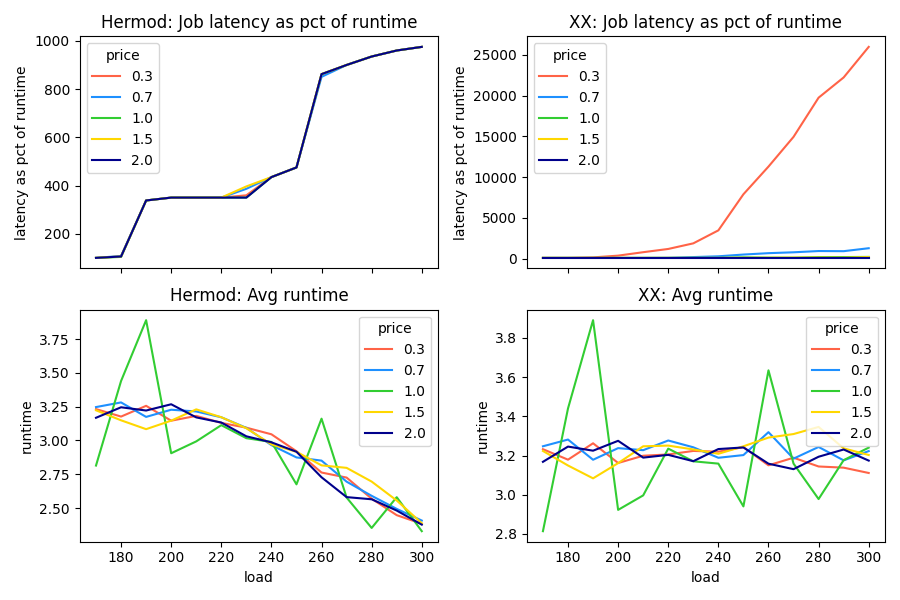
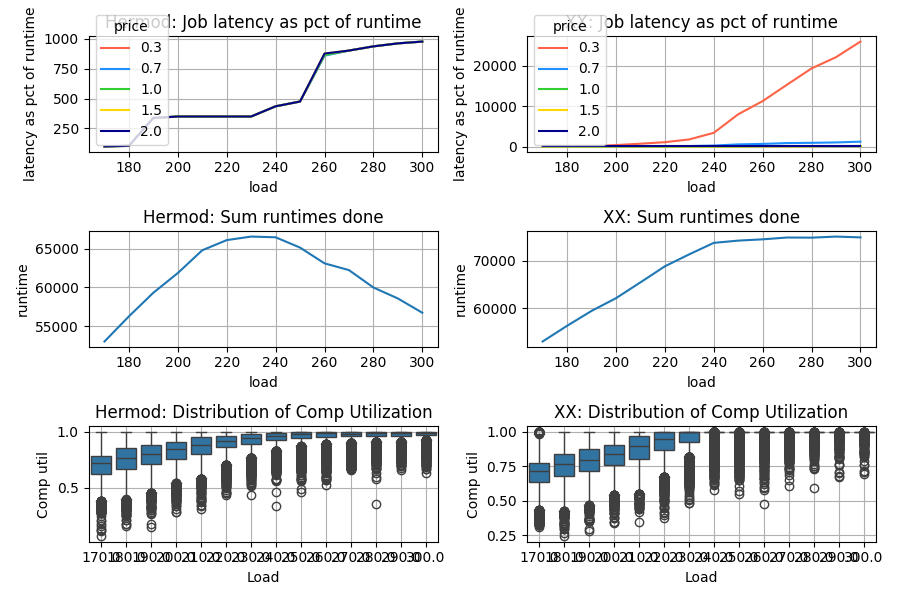
more exploratory graph, trying to understand what's going on better

diff --git a/results/usage_plots.py b/results/usage_plots.py
@@ -5,7 +5,7 @@ import numpy as np
 
 numMachines = 100
 coresPerMachine = 8
-totalMemoryPerMachine = 64000
+totalMemoryPerMachine = 512000
 
 
 
@@ -48,8 +48,8 @@ print("num edf finished: ", len(edf_procs_done))
 
 
 
-
-
+actual_usage_metrics = actual_usage_metrics.where(actual_usage_metrics['tick'] > 5).dropna()
+hermod_usage_metrics = hermod_usage_metrics.where(hermod_usage_metrics['tick'] > 5).dropna()
 
 
 # plots I will need to draw:
@@ -119,7 +119,7 @@ print("num edf finished: ", len(edf_procs_done))
 # =================================================================================
 
 
-fig, ax = plt.subplots(2, 2, figsize=(9, 6), sharex=True)
+fig, ax = plt.subplots(3, 2, figsize=(9, 6))
 
 high_contrast_palette = ["#FF6347", "#1E90FF", "#32CD32", "#FFD700", "#00008B"]
 
@@ -136,28 +136,47 @@ sns.lineplot(data=hermod_percentiles, x='nGenPerTick', y='percentile_99', hue='p
 ax[0, 0].set_title("Hermod: Job latency as pct of runtime")
 ax[0, 0].set_ylabel("latency as pct of runtime")
 ax[0, 0].set_xlabel("load")
+ax[0, 0].grid(True)
 
 
 sns.lineplot(data=mine_percentiles, x='nGenPerTick', y='percentile_99', hue='price', palette=high_contrast_palette, ax=ax[0, 1])
 ax[0, 1].set_title("XX: Job latency as pct of runtime")
 ax[0, 1].set_ylabel("latency as pct of runtime")
 ax[0, 1].set_xlabel("load")
+ax[0, 1].grid(True)
 
 
-hermod_percentile_runtime = hermod_procs_done.groupby(['nGenPerTick', 'price'])['compDone'].mean().reset_index()
+hermod_ticks_of_work_done = hermod_procs_done.groupby(['nGenPerTick'])['compDone'].sum().reset_index()
 
-mine_percentile_runtime = actual_procs_done.groupby(['nGenPerTick', 'price'])['compDone'].mean().reset_index()
+mine_ticks_of_work_done = actual_procs_done.groupby(['nGenPerTick'])['compDone'].sum().reset_index()
 
-sns.lineplot(data=hermod_percentile_runtime, x='nGenPerTick', y='compDone', hue='price', palette=high_contrast_palette, ax=ax[1, 0])
-ax[1, 0].set_title("Hermod: Avg runtime")
+sns.lineplot(data=hermod_ticks_of_work_done, x='nGenPerTick', y='compDone', ax=ax[1, 0])
+ax[1, 0].set_title("Hermod: Sum runtimes done")
 ax[1, 0].set_ylabel("runtime")
 ax[1, 0].set_xlabel("load")
+ax[1, 0].grid(True)
 
 
-sns.lineplot(data=mine_percentile_runtime, x='nGenPerTick', y='compDone', hue='price', palette=high_contrast_palette, ax=ax[1, 1])
-ax[1, 1].set_title("XX: Avg runtime")
+sns.lineplot(data=mine_ticks_of_work_done, x='nGenPerTick', y='compDone', ax=ax[1, 1])
+ax[1, 1].set_title("XX: Sum runtimes done")
 ax[1, 1].set_ylabel("runtime")
 ax[1, 1].set_xlabel("load")
+ax[1, 1].grid(True)
+
+sns.boxplot(data=hermod_usage_metrics, x="nGenPerTick", y="utilization", ax=ax[2, 0])
+ax[2, 0].set_title("Hermod: Distribution of Comp Utilization")
+ax[2, 0].set_xlabel("Load")
+ax[2, 0].set_ylabel("Comp util")
+# ax[2, 0].axhline(y=1, color='grey', linewidth=2, alpha=0.5)
+ax[2, 0].grid(True)
+
+
+sns.boxplot(data=actual_usage_metrics, x="nGenPerTick", y="utilization", ax=ax[2, 1])
+ax[2, 1].set_title("XX: Distribution of Comp Utilization")
+ax[2, 1].set_xlabel("Load")
+ax[2, 1].set_ylabel("Comp util")
+# ax[2, 1].axhline(y=1, color='grey', linewidth=2, alpha=0.5)
+ax[2, 1].grid(True)
 
 plt.tight_layout()
 plt.savefig('hermod_xx_latency.png')

diff --git a/mine-machine.go b/mine-machine.go
@@ -280,7 +280,7 @@ func (sd *Machine) simulateRunProcs() {
 	if totalTicksLeftToGive < 0.00002 {
 		totalTicksLeftToGive = 0
 	}
-	toWrite = fmt.Sprintf(", %v, %v\n", float64(math.Copysign(float64(totalTicksLeftToGive), 1)), ogMemFree)
+	toWrite = fmt.Sprintf(", %.3f, %v\n", float64(math.Copysign(float64(totalTicksLeftToGive), 1)), ogMemFree)
 	logWrite(USAGE, toWrite)
 
 	highestCost := float32(0)

diff --git a/hermod-machine.go b/hermod-machine.go
@@ -97,7 +97,11 @@ func (hm *HermodMachine) tick() {
 		}
 	}
 
-	toWrite = fmt.Sprintf(", %v, %v\n", float64(math.Copysign(float64(totalTicksLeftToGive), 1)), ogMemFree)
+	if totalTicksLeftToGive < 0.00002 {
+		totalTicksLeftToGive = 0
+	}
+
+	toWrite = fmt.Sprintf(", %.3f, %v\n", float64(math.Copysign(float64(totalTicksLeftToGive), 1)), ogMemFree)
 	logWrite(HERMOD_USAGE, toWrite)
 
 }

diff --git a/edf-machine.go b/edf-machine.go
@@ -176,7 +176,7 @@ func (edfm *BigEDFMachine) tick() {
 	if totalTicksLeftToGive < 0.00002 {
 		totalTicksLeftToGive = 0
 	}
-	toWrite = fmt.Sprintf(", %v, %v\n", float64(math.Copysign(float64(totalTicksLeftToGive), 1)), ogMemFree)
+	toWrite = fmt.Sprintf(", %.3f, %v\n", float64(math.Copysign(float64(totalTicksLeftToGive), 1)), ogMemFree)
 	logWrite(EDF_USAGE, toWrite)
 }
 
